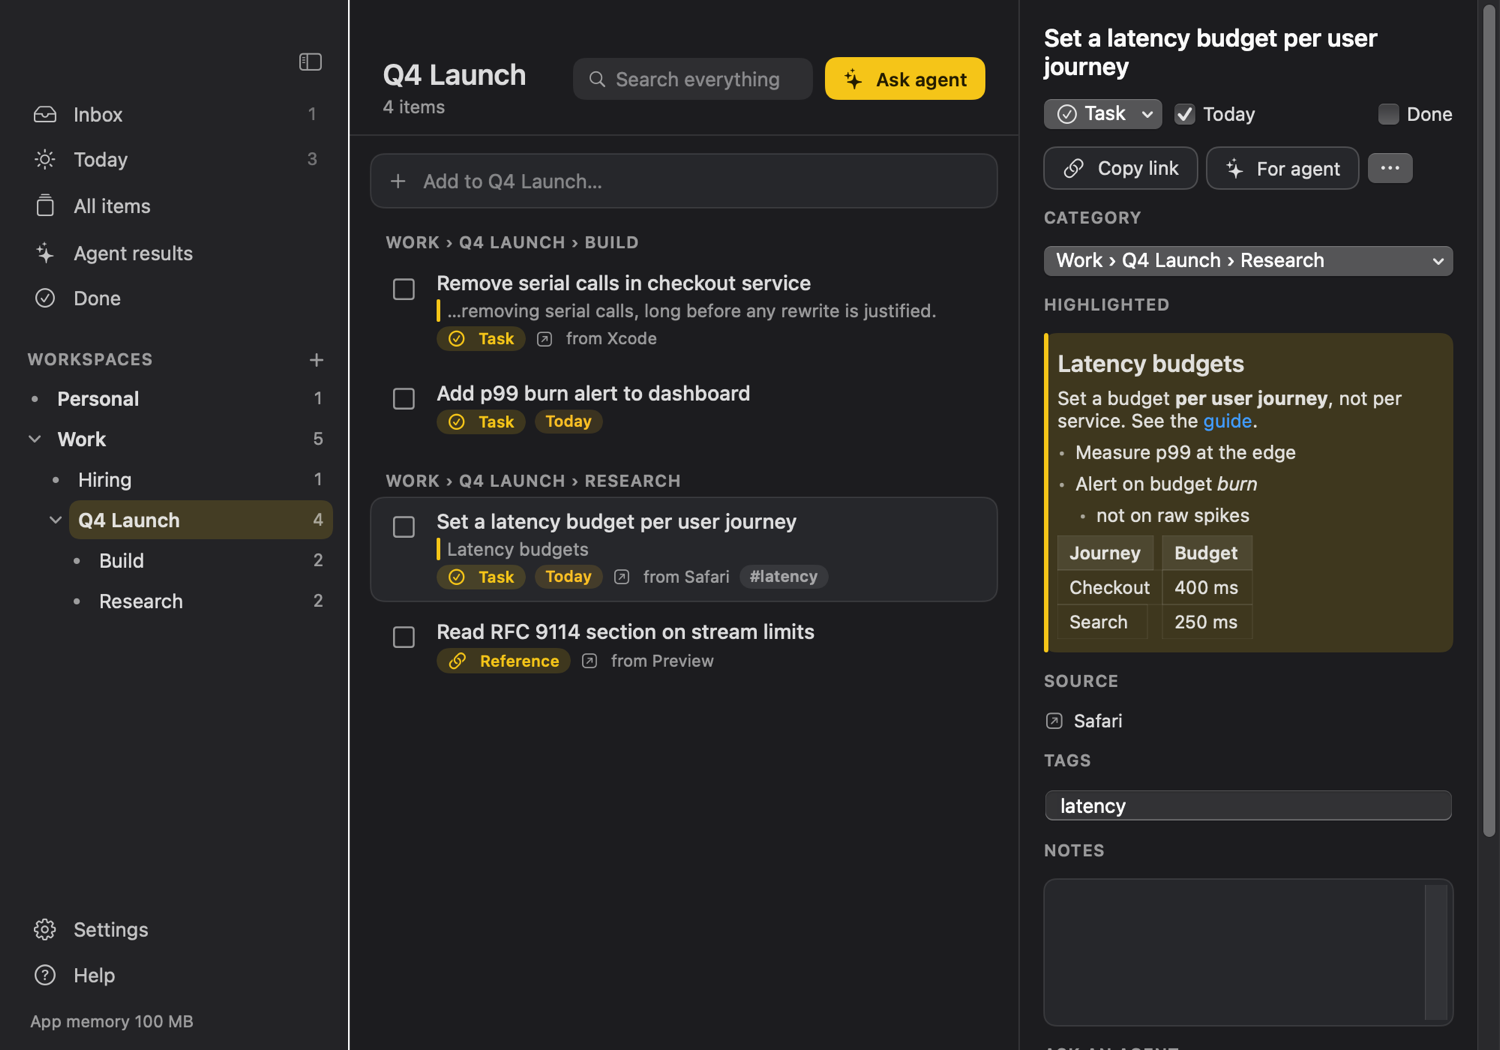
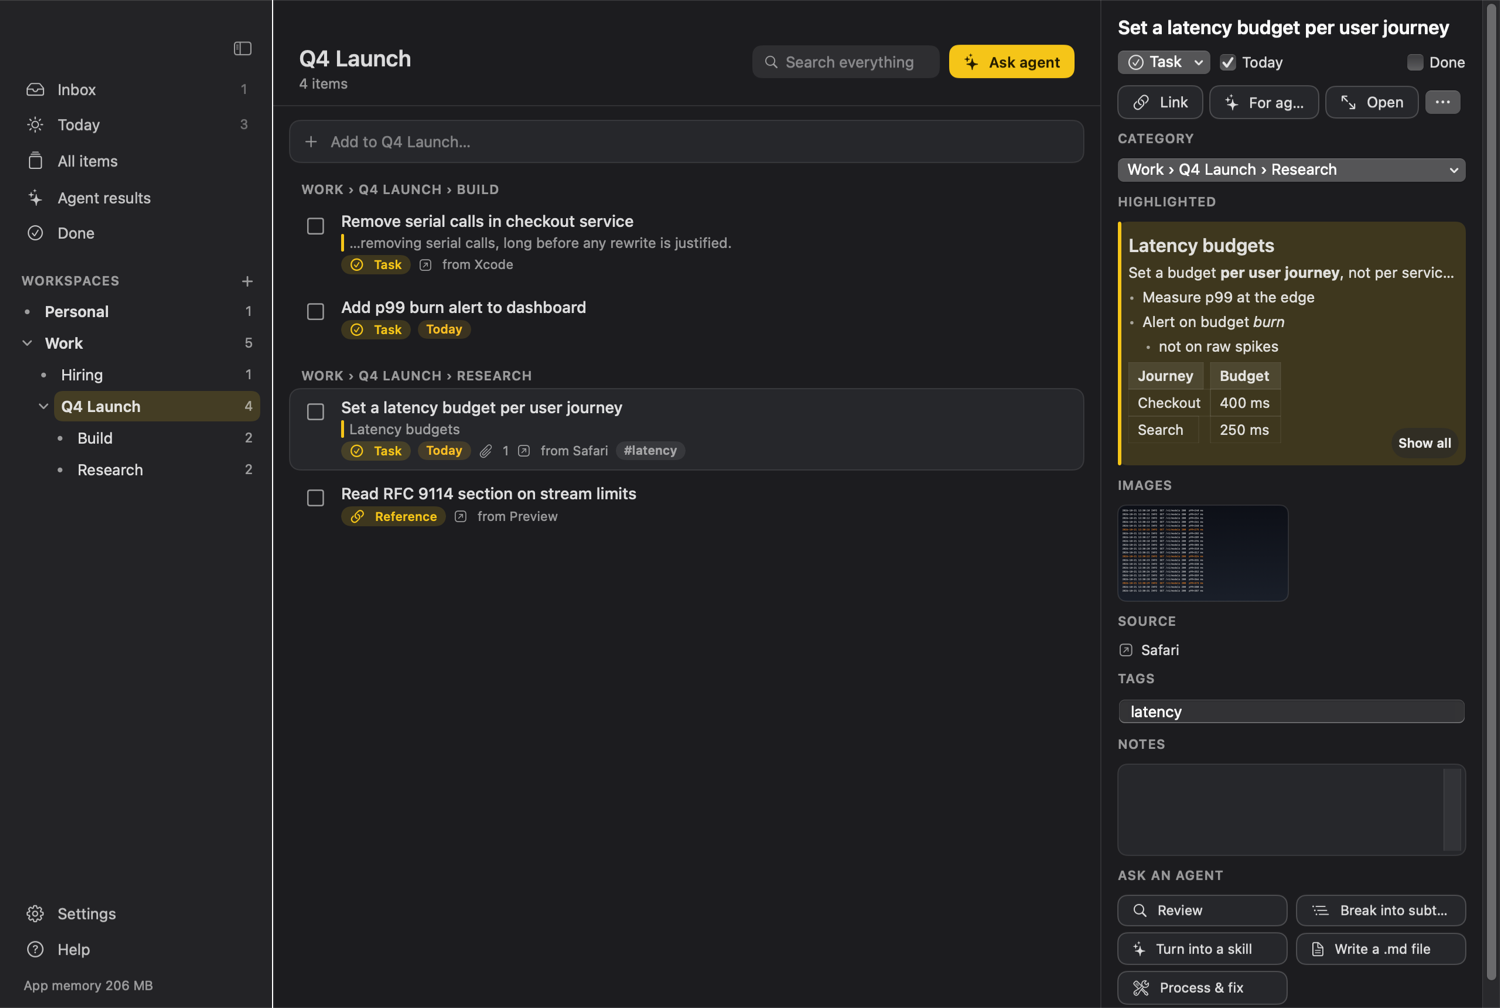
Full-size item view with zoom, compact inspector without scrollbar, larger default window, list-number-free titles

diff --git a/Sources/Noty/LibraryPane.swift b/Sources/Noty/LibraryPane.swift
@@ -4,12 +4,14 @@ import SwiftUI
 import NotyKit
 
 struct AgentRequest: Identifiable { let id = UUID(); let items: [Item] }
+struct DetailRequest: Identifiable { let id: String }
 
 /// Items of the selected scope on the left, the selected item's details on the right.
 struct LibraryPane: View {
     let lib = LibraryModel.shared
     @State private var request: AgentRequest?
     @State private var quickTitle = ""
+    @State private var detail: DetailRequest?
 
     var body: some View {
         if lib.scope == .agent { AgentResultsPane() } else { itemsPane }
@@ -31,10 +33,11 @@ struct LibraryPane: View {
             }
             if let it = lib.item(lib.selectedID) {
                 Divider()
-                InspectorView(item: it, ask: { request = AgentRequest(items: [$0]) }).id(it.id).frame(width: 320)
+                InspectorView(item: it, ask: { request = AgentRequest(items: [$0]) }, expand: { detail = DetailRequest(id: it.id) }).id(it.id).frame(width: 340)
             }
         }
         .sheet(item: $request) { AskAgentSheet(items: $0.items) }
+        .sheet(item: $detail) { ItemDetailView(id: $0.id) }
         .onChange(of: lib.askAgentFor) { _, id in
             if let id, let it = lib.item(id) { request = AgentRequest(items: [it]); lib.selectedID = id }
             lib.askAgentFor = nil
@@ -56,7 +59,7 @@ struct LibraryPane: View {
                     if groups.count > 1 || lib.scope != .category(g.value[0].path) {
                         Text(g.key.uppercased()).font(.system(size: 11, weight: .semibold)).tracking(0.5).foregroundStyle(.secondary).padding(.top, 12).padding(.leading, 10)
                     }
-                    ForEach(g.value) { ItemRow(item: $0) }
+                    ForEach(g.value) { it in ItemRow(item: it, open: { detail = DetailRequest(id: $0) }) }
                 }
             }.padding(.horizontal, 14).padding(.vertical, 12)
         }
@@ -90,6 +93,7 @@ struct LibraryPane: View {
 
 struct ItemRow: View {
     let item: Item
+    var open: (String) -> Void = { _ in }
     let lib = LibraryModel.shared
     @State private var hover = false
 
@@ -122,27 +126,29 @@ struct ItemRow: View {
         .overlay(RoundedRectangle(cornerRadius: 9).stroke(on ? Theme.hairline : .clear))
         .contentShape(RoundedRectangle(cornerRadius: 9))
         .onHover { hover = $0 }
-        .contextMenu { copyMenu(item); Divider(); Button(item.done ? "Mark as not done" : "Mark as done") { lib.toggleDone(item.id) } }
+        .simultaneousGesture(TapGesture(count: 2).onEnded { open(item.id) })
+        .contextMenu { Button { open(item.id) } label: { Label("Open full view", systemImage: "arrow.up.left.and.arrow.down.right") }; Divider(); copyMenu(item); Divider(); Button(item.done ? "Mark as not done" : "Mark as done") { lib.toggleDone(item.id) } }
     }
 }
 
 struct InspectorView: View {
     let item: Item
     var ask: (Item) -> Void
+    var expand: () -> Void = {}
     let lib = LibraryModel.shared
     @State private var draft: Item
     @State private var tagText: String
     @State private var saveTask: Task<Void, Never>?
     @State private var confirmDelete = false
 
-    init(item: Item, ask: @escaping (Item) -> Void) {
-        self.item = item; self.ask = ask
+    init(item: Item, ask: @escaping (Item) -> Void, expand: @escaping () -> Void = {}) {
+        self.item = item; self.ask = ask; self.expand = expand
         _draft = State(initialValue: item); _tagText = State(initialValue: item.tags.joined(separator: ", "))
     }
 
     var body: some View {
         ScrollView {
-            VStack(alignment: .leading, spacing: 12) {
+            VStack(alignment: .leading, spacing: 10) {
                 TextField("Title", text: $draft.title, axis: .vertical).textFieldStyle(.plain).font(.system(size: 16, weight: .semibold)).lineLimit(1...4)
                 HStack(spacing: 8) {
                     Menu {
@@ -153,9 +159,14 @@ struct InspectorView: View {
                     Toggle("Done", isOn: $draft.done).toggleStyle(.checkbox)
                 }.font(.system(size: 12.5))
                 HStack(spacing: 6) {
-                    Button { copyText(item.deepLink, "Link copied. Paste it anywhere to open this item in Noty.") } label: { Label("Copy link", systemImage: "link") }.buttonStyle(Pill())
-                    Button { copyText(item.agentReference(store: lib.store), "Copied for your agent. It includes the id the Noty tools understand.") } label: { Label("For agent", systemImage: "sparkles") }.buttonStyle(Pill())
-                    Menu { copyMenu(item) } label: { Image(systemName: "ellipsis") }.menuStyle(.button).menuIndicator(.hidden).fixedSize()
+                    Button { copyText(item.deepLink, "Link copied. Paste it anywhere to open this item in Noty.") } label: { Label("Link", systemImage: "link").lineLimit(1) }.buttonStyle(Pill()).help("Copy a noty:// link to this item")
+                    Button { copyText(item.agentReference(store: lib.store), "Copied for your agent. It includes the id the Noty tools understand.") } label: { Label("For agent", systemImage: "sparkles").lineLimit(1) }.buttonStyle(Pill()).help("Copy a ready-to-paste reference for an AI agent")
+                    Button { expand() } label: { Label("Open", systemImage: "arrow.up.left.and.arrow.down.right").lineLimit(1) }.buttonStyle(Pill()).help("See everything at full size")
+                    Menu {
+                        copyMenu(item)
+                        Divider()
+                        Button(role: .destructive) { confirmDelete = true } label: { Label("Delete item…", systemImage: "trash") }
+                    } label: { Image(systemName: "ellipsis") }.menuStyle(.button).menuIndicator(.hidden).fixedSize()
                 }.font(.system(size: 12))
 
                 label("Category")
@@ -163,23 +174,24 @@ struct InspectorView: View {
                     ForEach(lib.allCategoryPaths, id: \.self) { p in Button(p.joined(separator: " › ")) { draft.path = p } }
                 } label: { Text(draft.path.joined(separator: " › ")).lineLimit(1); }.menuStyle(.button)
 
-                if !draft.quote.isEmpty {
+                if !quoteText.isEmpty {
                     label("Highlighted")
-                    MarkdownView(text: draft.quote, imageURL: { n in draft.imageAttachments.indices.contains(n - 1) ? lib.store.attachmentURL(draft.imageAttachments[n - 1]) : nil })
+                    MarkdownView(text: quoteText)
+                        .frame(maxHeight: 190, alignment: .top).clipped()
                         .padding(9).background(Theme.accentSoft, in: RoundedRectangle(cornerRadius: 8))
+                        .overlay(alignment: .bottomTrailing) { Button("Show all") { expand() }.buttonStyle(.plain).font(.system(size: 11, weight: .semibold)).padding(6).background(.regularMaterial, in: Capsule()).padding(6).opacity(quoteText.count > 220 ? 1 : 0) }
                         .overlay(alignment: .leading) { Rectangle().fill(Theme.highlight).frame(width: 3).clipShape(RoundedRectangle(cornerRadius: 2)) }
                 }
-                let shownInline = draft.quote.contains("attachment:")
-                if !draft.imageAttachments.isEmpty && !shownInline {
+                if !draft.imageAttachments.isEmpty {
                     label("Images")
                     LazyVGrid(columns: [GridItem(.adaptive(minimum: 130), spacing: 6)], spacing: 6) {
                         ForEach(draft.imageAttachments, id: \.self) { name in
                             let url = lib.store.attachmentURL(name)
                             if let img = NSImage(contentsOf: url) {
-                                Button { NSWorkspace.shared.open(url) } label: {
-                                    Image(nsImage: img).resizable().scaledToFit().frame(maxWidth: .infinity, maxHeight: 150)
+                                Button { expand() } label: {
+                                    Image(nsImage: img).resizable().scaledToFit().frame(maxWidth: .infinity, maxHeight: 110)
                                         .background(Theme.card).clipShape(RoundedRectangle(cornerRadius: 7)).overlay(RoundedRectangle(cornerRadius: 7).stroke(Theme.hairline))
-                                }.buttonStyle(.plain).help("Open image").accessibilityLabel("Open image")
+                                }.buttonStyle(.plain).help("View full size").accessibilityLabel("View image full size")
                             }
                         }
                     }
@@ -206,7 +218,7 @@ struct InspectorView: View {
                 label("Tags")
                 TextField("comma, separated", text: $tagText).textFieldStyle(.roundedBorder)
                 label("Notes")
-                TextEditor(text: $draft.notes).font(.system(size: 12.5)).frame(minHeight: 90).scrollContentBackground(.hidden)
+                TextEditor(text: $draft.notes).font(.system(size: 12.5)).frame(height: 70).scrollContentBackground(.hidden)
                     .padding(4).background(Theme.card, in: RoundedRectangle(cornerRadius: 8)).overlay(RoundedRectangle(cornerRadius: 8).stroke(Theme.hairline))
 
                 label("Ask an agent")
@@ -216,12 +228,13 @@ struct InspectorView: View {
                             .buttonStyle(Pill())
                     }
                 }
-                Button(role: .destructive) { confirmDelete = true } label: { Label("Delete item", systemImage: "trash") }.buttonStyle(Pill(kind: .danger)).padding(.top, 4)
+                Color.clear.frame(height: 0)
                     .confirmationDialog("Delete “\(draft.title)”?", isPresented: $confirmDelete) {
                         Button("Move to Trash", role: .destructive) { lib.delete(item.id) }
                     } message: { Text("The file goes to the Trash, so you can still get it back.") }
-            }.padding(16)
+            }.padding(14)
         }
+        .scrollIndicators(.hidden)
         .background(Theme.pane)
         .onChange(of: draft) { _, _ in schedule() }
         .onChange(of: tagText) { _, t in draft.tags = t.split(separator: ",").map { $0.trimmingCharacters(in: .whitespaces) }.filter { !$0.isEmpty } }
@@ -230,6 +243,11 @@ struct InspectorView: View {
     }
 
     private func label(_ s: String) -> some View { SectionLabel(s) }
+
+    /// The highlighted text without picture placeholders; the pictures are shown as thumbnails below.
+    private var quoteText: String {
+        draft.quote.replacingOccurrences(of: #"!\[[^\]]*\]\(attachment:\d+\)"#, with: "", options: .regularExpression).trimmingCharacters(in: .whitespacesAndNewlines)
+    }
 
     private func schedule() {
         saveTask?.cancel()

diff --git a/Sources/Noty/ItemDetailView.swift b/Sources/Noty/ItemDetailView.swift
@@ -1,0 +1,84 @@
+// SPDX-License-Identifier: Apache-2.0
+
+import SwiftUI
+import NotyKit
+
+/// The whole item at full scale: formatted text, every image at its real size (with zoom), files, notes and source.
+struct ItemDetailView: View {
+    let id: String
+    var startImage: Int?
+    @Environment(\.dismiss) private var dismiss
+    let lib = LibraryModel.shared
+    @State private var zoom: Zoom = .fit
+    enum Zoom: String, CaseIterable { case fit = "Fit", actual = "100%", double = "200%" }
+
+    var body: some View {
+        if let item = lib.item(id) { content(item) } else {
+            VStack(spacing: 10) { Text("This item isn't in the library any more.").foregroundStyle(.secondary); Button("Close") { dismiss() }.buttonStyle(Pill()) }.padding(40)
+        }
+    }
+
+    private func content(_ item: Item) -> some View {
+        VStack(spacing: 0) {
+            HStack(alignment: .firstTextBaseline, spacing: 10) {
+                VStack(alignment: .leading, spacing: 4) {
+                    Text(item.title).font(.system(size: 20, weight: .semibold)).textSelection(.enabled)
+                    HStack(spacing: 6) {
+                        KindBadge(kind: item.kind)
+                        Text(item.pathLabel).font(.system(size: 12)).foregroundStyle(.secondary)
+                        if let a = item.sourceApp { SourceLabel(app: a, hasLink: item.sourceURL != nil) }
+                    }
+                }
+                Spacer()
+                if !item.imageAttachments.isEmpty { Segmented(options: Zoom.allCases.map { ($0, $0.rawValue) }, selection: $zoom) }
+                Menu { copyMenu(item) } label: { Label("Copy", systemImage: "doc.on.doc") }.menuStyle(.button).fixedSize()
+                Button("Done") { dismiss() }.buttonStyle(Pill(kind: .primary)).keyboardShortcut(.cancelAction)
+            }.padding(.horizontal, 20).padding(.vertical, 14)
+            Divider()
+            ScrollView {
+                VStack(alignment: .leading, spacing: 16) {
+                    if !textOnly(item).isEmpty {
+                        MarkdownView(text: textOnly(item), size: 14.5)
+                            .padding(14).background(Theme.accentSoft, in: RoundedRectangle(cornerRadius: 10))
+                            .overlay(alignment: .leading) { Rectangle().fill(Theme.highlight).frame(width: 3).clipShape(RoundedRectangle(cornerRadius: 2)) }
+                    }
+                    ForEach(item.imageAttachments, id: \.self) { full($0) }
+                    if !item.notes.isEmpty { SectionLabel("Notes"); Text(item.notes).font(.system(size: 14)).textSelection(.enabled) }
+                    if !item.otherAttachments.isEmpty {
+                        SectionLabel("Files")
+                        ForEach(item.otherAttachments, id: \.self) { name in
+                            Button { NSWorkspace.shared.open(lib.store.attachmentURL(name)) } label: { Label(name, systemImage: name.hasSuffix(".pdf") ? "doc.richtext" : "doc").font(.system(size: 13)) }.buttonStyle(Pill())
+                        }
+                    }
+                    if item.sourceApp != nil || item.sourceURL != nil {
+                        SectionLabel("Source")
+                        HStack(spacing: 6) {
+                            if let u = item.sourceURL, let url = URL(string: u) { Link(item.sourceTitle ?? u, destination: url) } else { Text(item.sourceTitle ?? item.sourceApp ?? "") }
+                            if let a = item.sourceApp { Text("· \(a)").foregroundStyle(.secondary) }
+                        }.font(.system(size: 13))
+                    }
+                }.padding(20).frame(maxWidth: .infinity, alignment: .leading)
+            }.scrollIndicators(.automatic)
+        }
+        .frame(minWidth: 760, idealWidth: 980, minHeight: 520, idealHeight: 760)
+        .background(Theme.pane)
+    }
+
+    /// The quote without picture placeholders: every picture is shown below at the chosen zoom instead.
+    private func textOnly(_ item: Item) -> String {
+        item.quote.replacingOccurrences(of: #"!\[[^\]]*\]\(attachment:\d+\)"#, with: "", options: .regularExpression).trimmingCharacters(in: .whitespacesAndNewlines)
+    }
+
+    /// An image at the chosen scale: fit to the window, or its real pixel size (2× is for reading small text).
+    private func full(_ name: String) -> some View {
+        let url = lib.store.attachmentURL(name)
+        return Group {
+            if let img = NSImage(contentsOf: url) {
+                let px = img.representations.first.map { CGSize(width: $0.pixelsWide, height: $0.pixelsHigh) } ?? img.size
+                let scale: CGFloat = zoom == .actual ? 0.5 : zoom == .double ? 1 : 0   // pixels at 2× display density, so 100% looks like the original
+                if zoom == .fit { Image(nsImage: img).resizable().scaledToFit().frame(maxWidth: .infinity, alignment: .leading).clipShape(RoundedRectangle(cornerRadius: 8)) }
+                else { ScrollView([.horizontal, .vertical]) { Image(nsImage: img).resizable().frame(width: px.width * scale, height: px.height * scale) }.frame(maxHeight: 560) }
+            }
+        }.overlay(RoundedRectangle(cornerRadius: 8).stroke(Theme.hairline))
+    }
+}

diff --git a/Sources/Noty/Snapshot.swift b/Sources/Noty/Snapshot.swift
@@ -24,7 +24,7 @@ enum SnapshotMode {
 
     @MainActor static var shots: [Shot] {
         func manager(_ p: Pane, dark: Bool = false, agents: Bool = false) -> Shot {
-            Shot(name: "manager-\(p.rawValue)\(agents ? "-agents" : "")\(dark ? "-dark" : "")", dark: dark, size: CGSize(width: 1000, height: 700)) {
+            Shot(name: "manager-\(p.rawValue)\(agents ? "-agents" : "")\(dark ? "-dark" : "")", dark: dark, size: CGSize(width: 1280, height: 860)) {
                 Nav.shared.pane = p
                 return AnyView(ManagerView(agentsTab: agents))
             }
@@ -37,7 +37,10 @@ enum SnapshotMode {
                 AnyView(CaptureView(model: CaptureModel(captured: Captured(text: "Set a latency budget per user journey, not per service. Measure p99 at the edge, alert on budget burn, and review the budget every quarter.", app: "Safari", windowTitle: "p99 latency is a product decision", url: "https://example.com/p99"))).padding(40).background(Theme.sidebar))
             }
         }
-        return [pop(), pop(dark: true), capture(), capture(dark: true), manager(.library), manager(.library, dark: true), manager(.settings), manager(.settings, agents: true), manager(.help)]
+        func detail() -> Shot {
+            Shot(name: "detail", dark: false, size: CGSize(width: 980, height: 760)) { AnyView(ItemDetailView(id: LibraryModel.shared.items[0].id)) }
+        }
+        return [detail(), pop(), pop(dark: true), capture(), capture(dark: true), manager(.library), manager(.library, dark: true), manager(.settings), manager(.settings, agents: true), manager(.help)]
     }
 
     @MainActor static func render(_ shot: Shot, to dir: String) async {
@@ -91,6 +94,13 @@ struct PopoverShot: View {
             Item(title: t, kind: kind, done: done, today: today, tags: tags, quote: quote, sourceApp: app, path: path)
         }
         let research = ["Work", "Q4 Launch", "Research"]
+        // a sample screenshot attachment, so the full-size viewer can be shown
+        let img = NSImage(size: NSSize(width: 1600, height: 900), flipped: false) { r in
+            NSGradient(starting: NSColor(srgbRed: 0.1, green: 0.12, blue: 0.16, alpha: 1), ending: NSColor(srgbRed: 0.05, green: 0.06, blue: 0.09, alpha: 1))?.draw(in: r, angle: 90)
+            for i in 0..<22 { ("2026-10-21 12:30:\(10 + i) INFO  GET /v1/models 200  p99=\(240 + i * 7) ms" as NSString).draw(at: NSPoint(x: 40, y: 840 - CGFloat(i) * 36), withAttributes: [.font: NSFont.monospacedSystemFont(ofSize: 22, weight: .regular), .foregroundColor: i % 7 == 5 ? NSColor.systemOrange : NSColor(white: 0.85, alpha: 1)]) }
+            return true
+        }
+        let sampleAttachment = NSBitmapImageRep(data: img.tiffRepresentation!)?.representation(using: .png, properties: [:]).flatMap { try? lib.store.saveAttachment($0, itemID: "demo0000", index: 1) }
         lib.items = [
             it("Set a latency budget per user journey", research, quote: "## Latency budgets\nSet a budget **per user journey**, not per service. See the [guide](https://example.com/p99).\n\n- Measure p99 at the edge\n- Alert on budget *burn*\n  - not on raw spikes\n\n| Journey | Budget |\n| --- | --- |\n| Checkout | 400 ms |\n| Search | 250 ms |", app: "Safari", today: true, tags: ["latency"]),
             it("Read RFC 9114 section on stream limits", research, app: "Preview", kind: .reference),
@@ -103,6 +113,7 @@ struct PopoverShot: View {
         ]
         lib.categories = ["Inbox", "Personal", "Work", "Work/Hiring", "Work/Q4 Launch", "Work/Q4 Launch/Build", "Work/Q4 Launch/Research"].map { CategoryNode(path: $0.split(separator: "/").map(String.init)) }
         lib.expanded = ["Work", "Work/Q4 Launch"]
+        if let a = sampleAttachment { lib.items[0].attachments = [a]; lib.items[0].quote += "\n\n![image](attachment:1)" }
         lib.scope = .category(["Work", "Q4 Launch"]); lib.selectedID = lib.items[0].id
         lib.loaded = true
     }

diff --git a/Sources/Noty/MarkdownView.swift b/Sources/Noty/MarkdownView.swift
@@ -9,6 +9,8 @@ struct MarkdownView: View {
     let text: String
     var imageURL: (Int) -> URL? = { _ in nil }
     var size: CGFloat = 12.5
+    var maxImageHeight: CGFloat = 220
+    var onImageTap: ((Int) -> Void)?
 
     private enum Block { case heading(Int, String), paragraph(String), bullet(Int, String, String), quote(String), code(String), table([[String]]), rule, image(Int) }
 
@@ -28,7 +30,12 @@ struct MarkdownView: View {
         case .code(let t): Text(t).font(.system(size: size - 1, design: .monospaced)).padding(8).frame(maxWidth: .infinity, alignment: .leading).background(Theme.fill, in: RoundedRectangle(cornerRadius: 6))
         case .rule: Divider()
         case .image(let n):
-            if let u = imageURL(n), let img = NSImage(contentsOf: u) { Image(nsImage: img).resizable().scaledToFit().frame(maxHeight: 220, alignment: .leading).clipShape(RoundedRectangle(cornerRadius: 6)).overlay(RoundedRectangle(cornerRadius: 6).stroke(Theme.hairline)) }
+            if let u = imageURL(n), let img = NSImage(contentsOf: u) {
+                Button { if let onImageTap { onImageTap(n) } else { NSWorkspace.shared.open(u) } } label: {
+                    Image(nsImage: img).resizable().scaledToFit().frame(maxWidth: .infinity, maxHeight: maxImageHeight, alignment: .leading)
+                        .clipShape(RoundedRectangle(cornerRadius: 6)).overlay(RoundedRectangle(cornerRadius: 6).stroke(Theme.hairline))
+                }.buttonStyle(.plain).help("View full size")
+            }
         case .table(let rows):
             ScrollView(.horizontal, showsIndicators: false) {
                 Grid(alignment: .leading, horizontalSpacing: 0, verticalSpacing: 0) {

diff --git a/Sources/Noty/AppDelegate.swift b/Sources/Noty/AppDelegate.swift
@@ -83,17 +83,17 @@ final class AppDelegate: NSObject, NSApplicationDelegate, NSWindowDelegate, NSPo
         Task { await LibraryModel.shared.reloadIfChanged() }
         popover.performClose(nil)
         if managerWindow == nil {
-            let w = NSWindow(contentRect: NSRect(x: 0, y: 0, width: 1120, height: 720),
+            let w = NSWindow(contentRect: NSRect(x: 0, y: 0, width: 1280, height: 860),
                              styleMask: [.titled, .closable, .miniaturizable, .resizable, .fullSizeContentView],
                              backing: .buffered, defer: false)
             w.titlebarAppearsTransparent = true
             w.titleVisibility = .hidden
             w.isReleasedWhenClosed = false
             w.minSize = NSSize(width: 900, height: 560)
-            w.setFrameAutosaveName("NotyManager")
+            w.setFrameAutosaveName("NotyManager2")
             w.delegate = self
             w.contentView = NSHostingView(rootView: ManagerView())
-            if !w.setFrameUsingName("NotyManager") { w.center() }
+            if !w.setFrameUsingName("NotyManager2") { w.center() }
             managerWindow = w
         }
         managerWindow?.makeKeyAndOrderFront(nil)

diff --git a/Sources/NotyKit/Item.swift b/Sources/NotyKit/Item.swift
@@ -41,7 +41,8 @@ public struct Item: Identifiable, Equatable, Sendable {
 
     /// A short title taken from the first line of a highlighted passage.
     public static func makeTitle(from text: String) -> String {
-        let line = text.split(whereSeparator: \.isNewline).map { $0.trimmingCharacters(in: .whitespaces) }.first { !$0.isEmpty } ?? ""
+        var line = text.split(whereSeparator: \.isNewline).map { $0.trimmingCharacters(in: .whitespaces) }.first { !$0.isEmpty } ?? ""
+        if let m = line.range(of: #"^(\d{1,3}[\.\)]|[•◦▪‣·\-–*])\s+"#, options: .regularExpression) { line.removeSubrange(m) }
         if line.count <= 80 { return line }
         let cut = line.prefix(80)
         if let space = cut.lastIndex(of: " "), cut.distance(from: cut.startIndex, to: space) > 40 { return String(cut[..<space]) + "…" }
